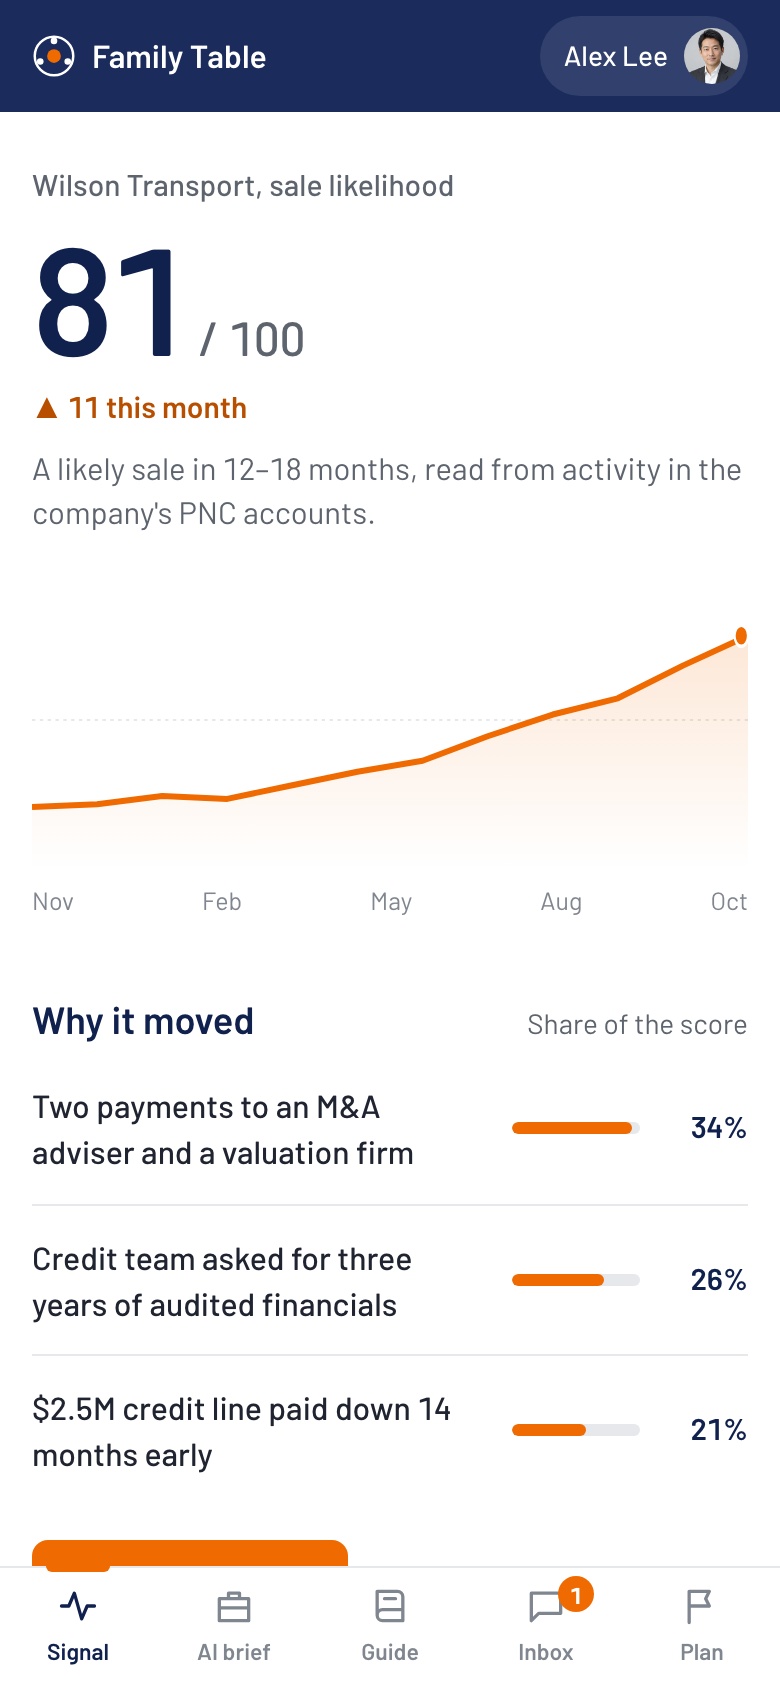
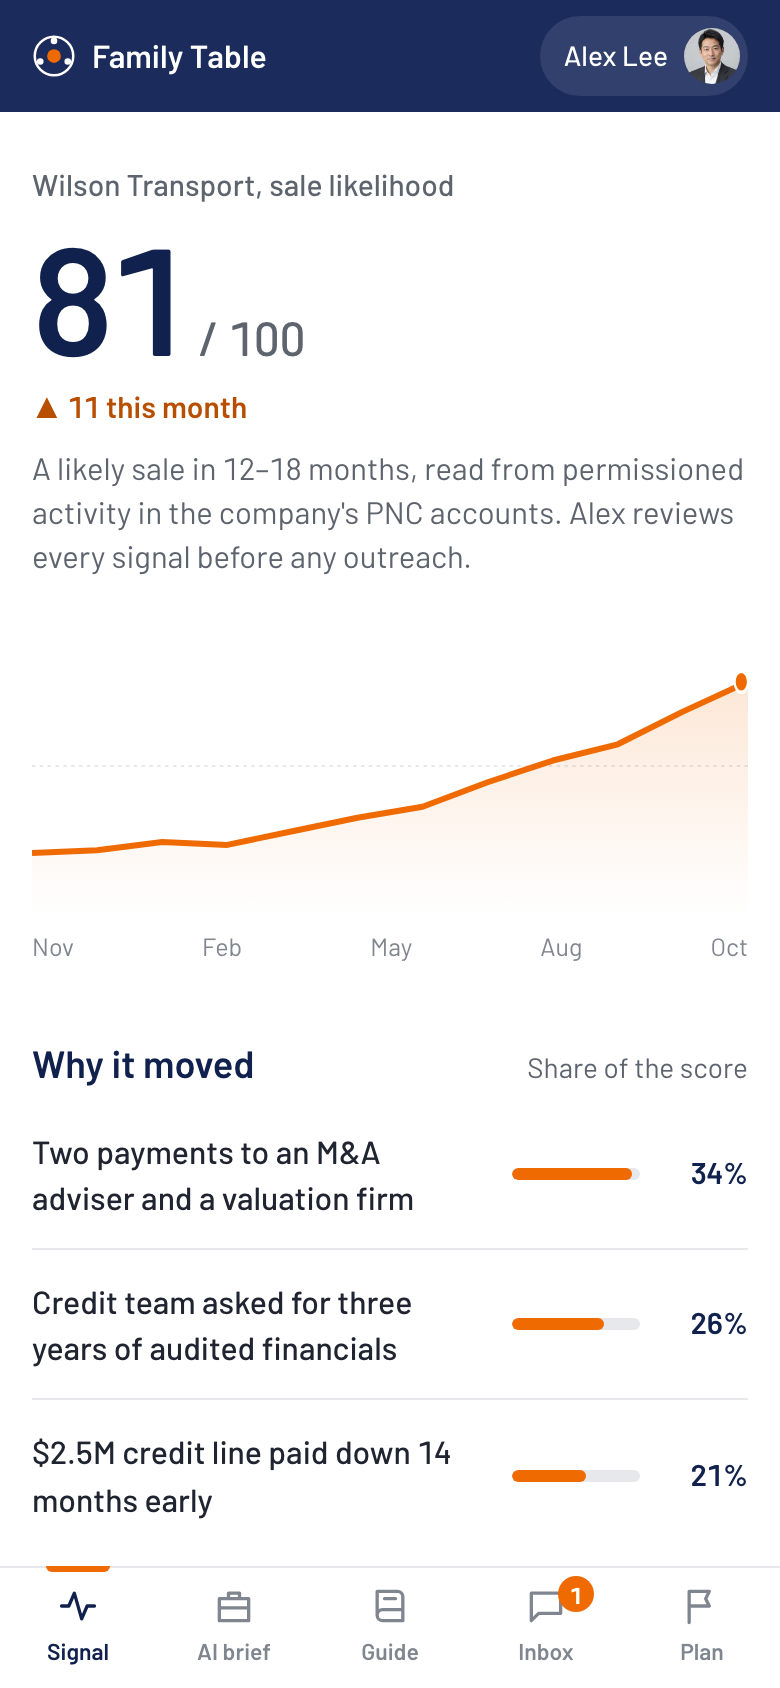
Prototype: every page's copy and figures match the deck
Splash carries the deck's subtitle, stage lines, family outcome, all five
market numbers in the deck's order, the PNC opportunity line and full sources.
Persona lines for Margaret and Alex come from the deck. The signal and inbox
captions say the signal is permissioned and reviewed before outreach, and that
every reply is logged. The tour gains a Plan-screen step so it covers the deck's
twelve-step user flow. One year on drops the fee figure the deck never claims
and states the $27.0M retained instead. The story card lists the deck's three
proprietary assets. Stills regenerated.

diff --git a/prototype/app.js b/prototype/app.js
@@ -105,11 +105,11 @@
   const step = (k, title, body, cls = "", icon = "check") => `<li class="tr-step ${cls}" data-k="${k}"><span class="tr-ic"><span class="tr-n">${k + 1}</span>${ic(icon, 16, 2.6)}<span class="spin"></span></span><div class="tr-body"><b>${title}</b>${body}</div></li>`;
   const mark = `<svg viewBox="0 0 32 32" width="22" height="22" aria-hidden="true"><circle cx="16" cy="16" r="14" fill="none" stroke="#fff" stroke-width="1.8"/><circle cx="16" cy="16" r="5" fill="#EF6A00"/><circle cx="16" cy="5" r="2.4" fill="#fff"/><circle cx="26" cy="20" r="2.4" fill="#fff"/><circle cx="6" cy="20" r="2.4" fill="#fff"/></svg>`;
 
-  // Three steps. The deck's Signal and Join fold into Align; Continue folds into Activate.
+  // Three guided stages, named and described as in the deck.
   const STAGES = [
-    { id: "align", label: "Align", icon: "lock", line: "Surface views privately" },
-    { id: "allocate", label: "Allocate", icon: "scale", line: "Make trade-offs visible" },
-    { id: "activate", label: "Activate", icon: "chat", line: "Act with the advisor" },
+    { id: "align", label: "Align", icon: "lock", line: "Share priorities privately" },
+    { id: "allocate", label: "Allocate", icon: "scale", line: "Compare and propose" },
+    { id: "activate", label: "Activate", icon: "chat", line: "Act on the shared plan" },
   ];
 
   // ---------- visualisations ----------
@@ -196,8 +196,8 @@
   function splash() {
     // Portraits in faces/ are AI-generated; the people are fictional.
     const cast = [
-      ["margaret", "Margaret Wilson, 63", "Founder, selling the company", "Wants a plan the family trusts."],
-      ["alex", "Alex Lee", "PNC advisor", "Hears everyone before closing."],
+      ["margaret", "Margaret Wilson, 63", "Family business owner", "Needs a clear plan the family understands and trusts."],
+      ["alex", "Alex Lee", "PNC advisor", "Needs to understand family concerns before decisions are made."],
       ["tom", "Tom Wilson, 65", "Margaret's husband", "Not an owner. Still affected."],
       ["ben", "Ben Wilson, 40", "COO, staying on", "Thinks his years should count."],
       ["claire", "Claire Wilson, 37", "Nurse in Columbus", "Thinks equal is fair."],
@@ -208,20 +208,24 @@
         <div class="onb-hero">
           <div class="onb-copy">
             <h1>Crafting the family future, today</h1>
-            <p>Hearing the voice of the family before it even starts.</p>
+            <p>A consent-based AI coordination layer for PNC's commercial and private-bank clients.</p>
             <div class="onb-ctas"><button class="btn xl" data-act="tour-start">Start the 2-minute demo</button><a class="btn xl ghost-w" href="#/preview">Preview it for your family</a></div>
           </div>
           <div class="onb-how"><h2>How it works</h2>
-            <ol class="stages">${STAGES.map((s, i) => `<li style="--i:${i}"><span class="st-ic">${ic(s.icon, 18)}</span><span class="st-tx"><b>${s.label}</b><span>${s.line}</span></span></li>`).join("")}</ol></div>
+            <ol class="stages">${STAGES.map((s, i) => `<li style="--i:${i}"><span class="st-ic">${ic(s.icon, 18)}</span><span class="st-tx"><b>${s.label}</b><span>${s.line}</span></span></li>`).join("")}</ol>
+            <p class="onb-outcome"><b>Family outcome</b> Greater clarity on options, trade-offs and unanswered questions, fairness without confrontation, and confidence that a person reviews every answer.</p></div>
         </div></div></section>
       <section class="onb-end"><div class="in">
         <h2>A business exit puts both assets and family relationships in motion</h2>
-        <div class="ends">
+        <div class="ends five">
           <div><b data-count="124" data-fmt="t">$124T</b><span>projected U.S. wealth transfer through 2048</span></div>
-          <div><b data-count="83" data-fmt="p">83%</b><span>of business owners say family dynamics affect succession or exit planning</span></div>
-          <div><b data-count="55" data-fmt="p">55%</b><span>of spouses and heirs say they will not, or did not, retain their benefactor's advisor</span></div>
+          <div><b data-count="89" data-fmt="p">89%</b><span>of business owners want connected business and personal advice</span></div>
+          <div><b data-count="67" data-fmt="p">67%</b><span>still manage those needs separately</span></div>
+          <div><b data-count="83" data-fmt="p">83%</b><span>say family dynamics affect succession or exit planning</span></div>
+          <div><b data-count="55" data-fmt="p">55%</b><span>of spouses and heirs say they will not retain their benefactor's advisor</span></div>
         </div>
-        <p class="small muted">89% of owners want connected business and personal advice; 67% still manage those needs separately. Sources: Cerulli Associates (2024); PNC Private Bank Business Owner Wealth Insights 2026; Natixis Investment Managers Wealth Transfer Report 2026.</p>
+        <p class="onb-opp"><b>The PNC opportunity</b> Retaining post-sale assets and building relationships with the next generation. Building toward wealth management through deposits, custody, trust, lending and brokerage.</p>
+        <p class="small muted">Sources: Cerulli Associates, The Cerulli Report: U.S. High-Net-Worth and Ultra-High-Net-Worth Markets 2024; PNC Private Bank, Business Owner Wealth Insights 2026, Ipsos survey of 300 U.S. middle-market business owners; Natixis Investment Managers, 2026 Wealth Transfer Report, survey of 3,477 spouses and next-generation heirs.</p>
       </div></section>
       <section class="onb-cast"><div class="in"><h2>Meet the Wilsons</h2>
         <p class="muted">Margaret built Wilson Transport over 35 years. Now she's selling it for $48.0M, sure her children agree on what's fair.</p>
@@ -233,7 +237,7 @@
   // ---------- guided story: alternates the two sides ----------
   const TOUR = [
     { side: "Advisor", stage: "Align", route: "advisor", title: "Alex sees the sale coming",
-      hint: "PNC's own account data puts Wilson Transport at 81 out of 100, a year before closing. Tap Call Margaret.", target: '[data-act="start"]', done: () => state.started },
+      hint: "Permissioned activity in Wilson Transport's PNC accounts puts a sale at 81 out of 100, a year before closing. Alex reviews the signal before any outreach. Tap Call Margaret.", target: '[data-act="start"]', done: () => state.started },
     { side: "Family", stage: "Align", route: "preview", title: "Margaret previews what's possible",
       hint: "Before she talks to anyone, she adds what she has and AI reads it. Tap Use the Wilsons' documents.", target: '[data-act="pv-sample"]', done: () => state.pvRead },
     { side: "Family", stage: "Align", route: "me/margaret/docs", title: "Her documents go in. AI reads them.",
@@ -254,8 +258,10 @@
       prep: () => { if (!state.msgs.some(m => m.from === "sam")) state.msgs.push({ id: "sam-demo", from: "sam", qi: 0, at: "Just now" }); },
       hint: "Sam's question went to Alex. The draft uses calculator numbers and passes the checks. Approve and send.", target: '[data-act="send"][data-from="sam"]',
       done: () => state.msgs.some(m => m.from === "sam" && state.replies[m.id] != null) },
+    { side: "Family", stage: "Activate", route: "me/sam/plan", title: "Sam agrees in principle",
+      hint: "After the family meeting, each person sees their own next step and where the sale is. Counsel still confirms the plan. Tap Agree to the plan in principle.", target: '[data-act="agree"]', done: () => !!state.agreed.sam },
     { side: "Both sides", stage: "Activate", route: "year-one", title: "One year on",
-      hint: "The sale has closed. Every dollar is working in a PNC service, and all five Wilsons bank with PNC.", target: null, done: () => true },
+      hint: "The sale has closed. Every dollar is working in a PNC service, and all five Wilsons bank with PNC. A demo outcome, not live tracking.", target: null, done: () => true },
   ];
   function tourBar() {
     if (embedded || state.tour < 0 || route.startsWith("story/") || route === "") return "";
@@ -439,7 +445,7 @@
       <div class="rows">${CHAPTER.map(([id, t]) => { const on = state.chapter.includes(id); return `<button class="row pick ${on ? "on" : ""}" data-act="chapter" data-id="${id}" aria-pressed="${on}"><span class="ic ${on ? "g" : ""}">${ic(on ? "check" : "compass", 18, on ? 2.4 : 1.8)}</span><span class="tx"><b>${t}</b></span></button>`; }).join("")}</div></section>`;
     return `<div class="page"><div class="cols"><div class="col-main">
       <section class="hero"><div class="label">Your next step</div><h1 class="title">${STEPS[pid]}</h1>
-        <div style="margin-top:18px">${agreed ? `<button class="btn done block" disabled>${ic("check", 18, 2.4)} You agreed to the plan in principle</button>` : `<button class="btn block" data-act="agree" data-id="${pid}">Agree to the plan in principle</button>`}</div></section>
+        <div style="margin-top:18px">${agreed ? `<button class="btn done block" disabled>${ic("check", 18, 2.4)} You agreed to the plan in principle</button>` : `<button class="btn block" data-act="agree" data-id="${pid}">Agree to the plan in principle</button>`}<p class="micro faint center" style="margin-top:8px">Recorded for Alex. Counsel still confirms the plan.</p></div></section>
       ${chapter}
       <section class="section"><div class="section-head"><h2>Everyone's next step</h2></div><div class="rows">${S.people.filter(x => x.id !== pid).map(x => `<div class="row">${av(x, 36)}<span class="tx"><b>${x.short}</b><span>${STEPS_OTHERS[x.id]}</span></span>${state.agreed[x.id] ? `<span class="badge g">Agreed</span>` : ""}</div>`).join("")}</div></section>
       </div><aside class="col-side"><div class="panel"><div class="section-head"><h2>${pid === "margaret" ? "If you can't continue" : "If Margaret can't continue"}</h2><span class="badge g">Signed</span></div><p class="small muted" style="margin-top:6px">${S.contingency}</p></div>
@@ -452,7 +458,7 @@
     return `<div class="page"><div class="cols"><div class="col-main">
         <section class="hero"><div class="label">Wilson Transport, sale likelihood</div>
           <div class="value huge"><span data-count="${s.score}" data-fmt="i">${s.score}</span><span class="unit">/ 100</span></div>
-          <div class="delta up">▲ ${s.change} this month</div><div class="caption">A likely sale in ${s.horizon}, read from activity in the company's PNC accounts.</div>
+          <div class="delta up">▲ ${s.change} this month</div><div class="caption">A likely sale in ${s.horizon}, read from permissioned activity in the company's PNC accounts. Alex reviews every signal before any outreach.</div>
           <div class="chart">${lineChart(s.history)}<div class="chart-x"><span>Nov</span><span>Feb</span><span>May</span><span>Aug</span><span>Oct</span></div></div></section>
         <section class="section"><div class="section-head"><h2>Why it moved</h2><span class="aside">Share of the score</span></div>
           <div class="rows">${s.reasons.map(r => `<div class="row reason"><span class="tx"><b>${r.text}</b></span><span class="bar weight"><i style="width:${r.weight / 0.36 * 100}%;background:var(--orange)"></i></span><span class="rt">${Math.round(r.weight * 100)}%</span></div>`).join("")}</div>
@@ -525,7 +531,7 @@
         <div class="inmsg-actions"><button class="btn navy" data-act="send" data-id="${m.id}" data-from="${m.from}">${ic("send", 17)} Approve and send</button></div></article>`; };
     return `<div class="page"><div class="cols"><div class="col-main">
       <section class="hero"><div class="label">Waiting for you</div><div class="value huge">${w.length + reqs.length}</div>
-        <div class="caption">AI drafts each reply from the plan and the calculator. Nothing reaches the family until you send it.</div></section>
+        <div class="caption">AI drafts each reply from the plan and the calculator. Nothing reaches the family until you send it, and every reply is logged.</div></section>
       <section class="section">${w.length ? w.map(card).join("") : `<div class="empty-state">${ic("check", 22, 2.4)}<b>All replies sent</b><span>New questions from the family land here.</span></div>`}</section>
       </div><aside class="col-side">
         ${reqs.length ? `<section class="panel"><div class="section-head"><h2>Call requests</h2></div><div class="rows">${reqs.map(id => `<div class="row">${av(P[id], 36)}<span class="tx"><b>${P[id].short}</b><span>${state.calls[id]}</span></span><button class="btn sm navy" data-act="confirm-call" data-id="${id}">Confirm</button></div>`).join("")}</div></section>` : ""}
@@ -590,7 +596,7 @@
 
   // ---------- one year on ----------
   function yearOne() {
-    const Y = S.yearOne, ch = OPT[Y.chosen], g = gifts(ch.w), placed = heirSum(ch.w), fee = net() * Y.feeRate * 1000;
+    const Y = S.yearOne, ch = OPT[Y.chosen], g = gifts(ch.w), placed = heirSum(ch.w);
     const picks = state.chapter.length ? CHAPTER.filter(([id]) => state.chapter.includes(id)).map(([, , done]) => done) : ["Started the Wilson family foundation"];
     const fam = [
       [P.margaret, "Margaret's next chapter", picks[0] + (picks.length > 1 ? `, and ${picks.length - 1} more` : "")],
@@ -601,7 +607,7 @@
     const pnc = [
       ["repeat", "One yearly check-in", "The family meets every November. The plan and the decision log stay current."],
       ["users", `${Y.pncAfter} of 5 relationships`, `Up from ${Y.pncBefore}. Alex knows the next generation before the next transfer.`],
-      ["bank", `About $${Math.round(fee)}K a year`, "In fees on the $27.0M, at an illustrative 0.8% blended rate."],
+      ["bank", `${money(net())} retained`, "Post-sale assets at PNC, across deposits, custody, trust, lending and brokerage."],
     ];
     return `<section class="y1"><div class="in">
         <div class="label">${Y.when}</div><h1>One year on, the plan is everyday banking.</h1>
@@ -621,7 +627,7 @@
         <section class="panel"><div class="section-head"><h2>How they got here</h2></div><ol class="recap">${Y.events.map(e => `<li><span class="rc-ic">${ic("check", 14, 2.6)}</span><span class="tx"><b>${e.stage}</b><span>${e.what}</span></span></li>`).join("")}</ol></section>
       </aside></div>
       <div class="y1-actions">${state.tour >= 0 ? "" : `<button class="btn" data-act="tour-start">Replay the demo</button>`}<a class="btn ghost" href="#/">Back to the start</a></div>
-      <p class="micro faint center" style="margin-top:14px">A fictional outcome, derived from the demo's figures.</p></div>`;
+      <p class="micro faint center" style="margin-top:14px">A fictional post-sale snapshot, derived from the demo's figures. A demo outcome, not live tracking.</p></div>`;
   }
 
   // ---------- before PNC: scenario preview ----------
@@ -894,10 +900,10 @@
         <div class="stat"><b>83%</b><p>of business owners say family dynamics affect succession or exit planning.</p><small>PNC Business Owner Wealth Insights, 2026</small></div>
         <div class="stat"><b>67%</b><p>still manage business and personal finances separately, though 89% want them connected.</p><small>PNC Business Owner Wealth Insights, 2026</small></div>
         <div class="stat"><b>55%</b><p>of spouses and heirs will not, or did not, keep their benefactor's advisor.</p><small>Natixis Wealth Transfer Report, 2026</small></div></div>`,
-      sauce: `${eyebrow}<h1>Why only PNC can build this</h1><div class="stats pillars">
-        <div class="stat"><span class="pi">${ic("flag", 26)}</span><b>A signal PNC already holds</b><p>Business-account activity can flag a sale a year before closing.</p></div>
-        <div class="stat"><span class="pi">${ic("lock", 26)}</span><b>Private by default</b><p>Each person answers alone. The advisor sees the gaps, not the words.</p></div>
-        <div class="stat"><span class="pi">${ic("users", 26)}</span><b>One household graph</b><p>Heirs meet PNC before the money moves.</p></div></div>`,
+      sauce: `${eyebrow}<h1>Three proprietary assets inside one consented, AI-infused stack</h1><div class="stats pillars">
+        <div class="stat"><span class="pi">${ic("brief", 26)}</span><b>Proprietary family intelligence</b><p>NLP themes, Document AI and drafts behind one gateway. Alex reviews every output before it reaches the client.</p></div>
+        <div class="stat"><span class="pi">${ic("users", 26)}</span><b>Proprietary household graph</b><p>Member vaults, a consent ledger and a graph of business, owners and heirs. Each member controls sharing.</p></div>
+        <div class="stat"><span class="pi">${ic("pulse", 26)}</span><b>Proprietary early signal</b><p>Permissioned commercial relationship signals show when an advisor conversation is timely. The advisor reviews every signal before outreach.</p></div></div>`,
       close: `${eyebrow}<h1>A plan the family trusts. An advisor who hears everyone. Proceeds that stay.</h1><p class="sub" style="font-size:20px">Alen Ilmi, Rizaldy Utomo, Nindy Aditya Dewi and Aditya Mulya Pratama, Carnegie Mellon University</p>`,
     };
     return `<section class="storycard"><div class="inner">${cards[id] || cards.hook}</div></section>`;

diff --git a/prototype/data.js b/prototype/data.js
@@ -13,7 +13,7 @@ window.SEED = {
   // Order = seats around the family table, clockwise from the top.
   people: [
     { id: "margaret", name: "Margaret Wilson", short: "Margaret", age: 63, role: "Founder and CEO", inBiz: true, gen: 1,
-      line: "Wants a plan her family understands and trusts.",
+      line: "Needs a clear plan the family understands and trusts.",
       status: "checked", pnc: "Business banking", color: "#10214D" },
     { id: "tom", name: "Tom Wilson", short: "Tom", age: 65, role: "Margaret's husband, retired teacher", inBiz: false, gen: 1,
       line: "Not an owner, but his future depends on the plan.",
@@ -169,7 +169,7 @@ window.SEED = {
       ["Who is heard", "The founder, usually alone", "Every family member, privately"],
       ["When the family talks", "After the deal is signed", "Before the letter of intent"],
       ["Each child's number", "A guess, or a surprise", "Their own number, under every option"],
-      ["The next generation", "55% of heirs leave their parents' advisor", "Meets PNC before the money moves"],
+      ["The next generation", "55% of spouses and heirs will not retain the benefactor's advisor", "Meets PNC before the money moves"],
     ],
     month: [
       ["Week 1", "A call with your PNC advisor"],
@@ -278,7 +278,6 @@ window.SEED = {
     when: "November 2027",
     chosen: "balanced",
     pncBefore: 3, pncAfter: 5,
-    feeRate: 0.008, // illustrative blended fee from the economics sensitivity, not a forecast
     events: [
       { stage: "Align", what: "Alex called a year early. All five checked in. Fairness was settled on Nov 12 with a facilitator." },
       { stage: "Allocate", what: "The family chose the Balanced split." },

diff --git a/prototype/styles.css b/prototype/styles.css
@@ -376,6 +376,10 @@ body.onboarding { background: var(--navy); }
 .onb-end .in, .onb-cast .in, .y1 .in { max-width: 1200px; margin: 0 auto; padding: 0 16px; }
 .onb-end h2, .onb-cast h2 { font-size: 24px; font-weight: 600; color: var(--navy); }
 .ends { display: grid; gap: 22px; margin: 22px 0 18px; }
+.onb-opp { font-size: 16px; color: var(--text); margin: 4px 0 14px; max-width: 72ch; line-height: 1.45; }
+.onb-opp b { display: block; color: var(--orange); font-weight: 600; margin-bottom: 2px; }
+.onb-outcome { margin-top: 14px; padding-top: 12px; border-top: 1px solid rgba(255,255,255,.12); font-size: 14.5px; color: rgba(255,255,255,.78); line-height: 1.4; }
+.onb-outcome b { display: block; color: #fff; font-weight: 600; margin-bottom: 2px; }
 .ends b { display: block; font-size: 52px; line-height: 1; font-weight: 600; letter-spacing: -0.02em; color: var(--navy); }
 .ends span { display: block; font-size: 15.5px; color: var(--sub); margin-top: 8px; max-width: 34ch; }
 .onb-cast { background: var(--surface); padding: 40px 0 56px; }
@@ -481,7 +485,9 @@ body.touring main { padding-bottom: 230px; }
   .value.huge { font-size: 96px; }
   .stats, .cast { grid-template-columns: repeat(3, 1fr); }
   .ends { grid-template-columns: repeat(3, 1fr); gap: 32px; }
+  .ends.five { grid-template-columns: repeat(5, 1fr); gap: 24px; }
   .ends b { font-size: 64px; }
+  .ends.five b { font-size: 54px; }
   .cast-row { grid-template-columns: repeat(3, 1fr); }
   .onb-copy h1 { font-size: 56px; }
   .y1 h1 { font-size: 52px; }
